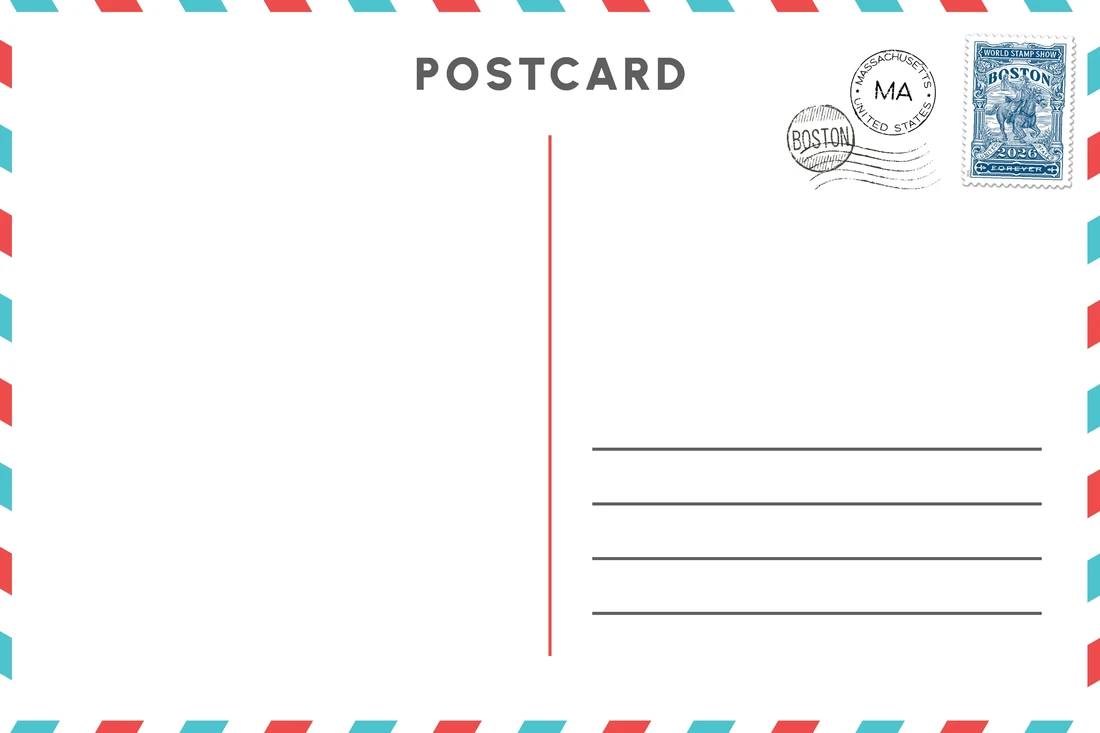
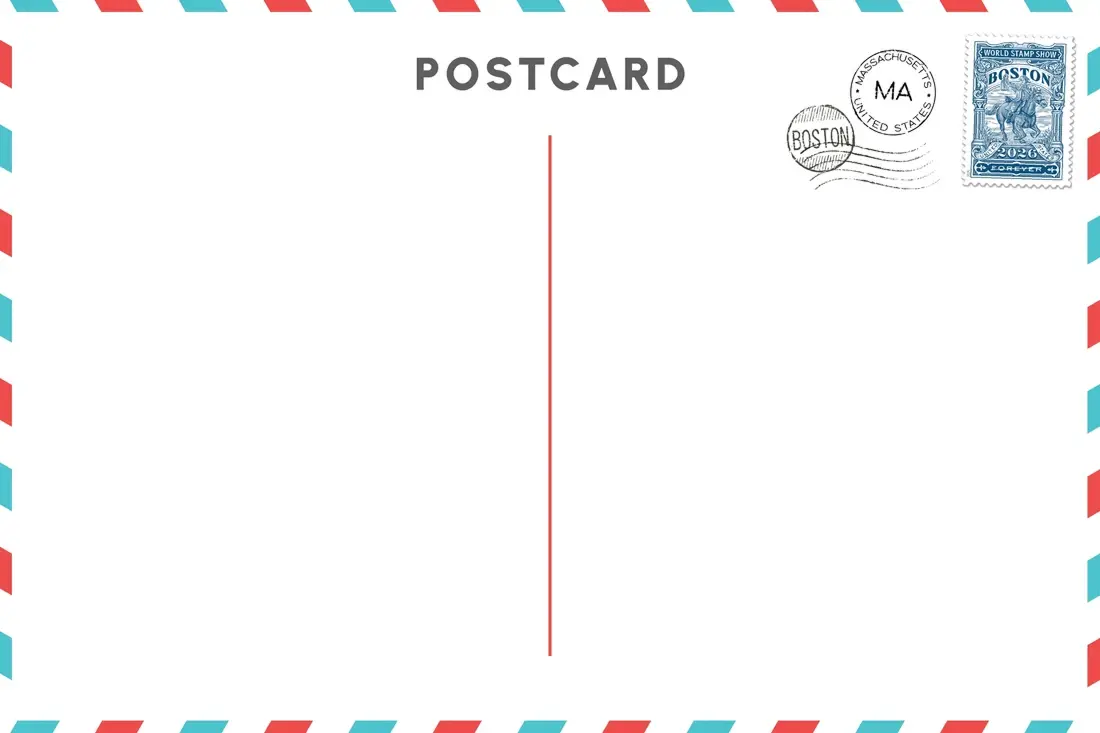
Look at them gradients

diff --git a/src/layouts/base.css b/src/layouts/base.css
@@ -73,6 +73,7 @@
 
 	--transitionFast: 140ms;
 	--transitionMedium: 280ms;
+	--transitionBackground: var(--transitionFast);
 
 	color-scheme: light;
 }
